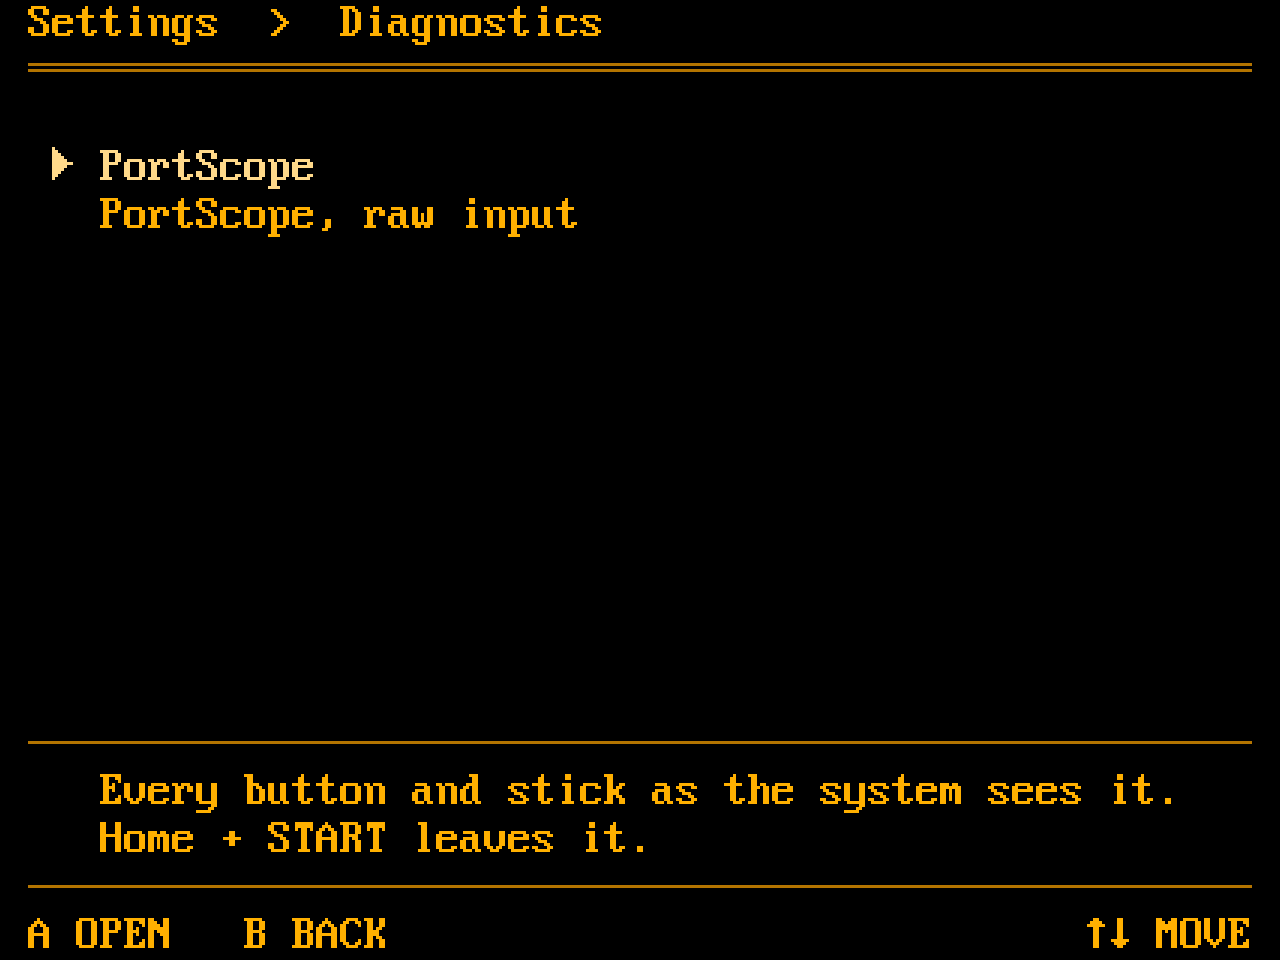
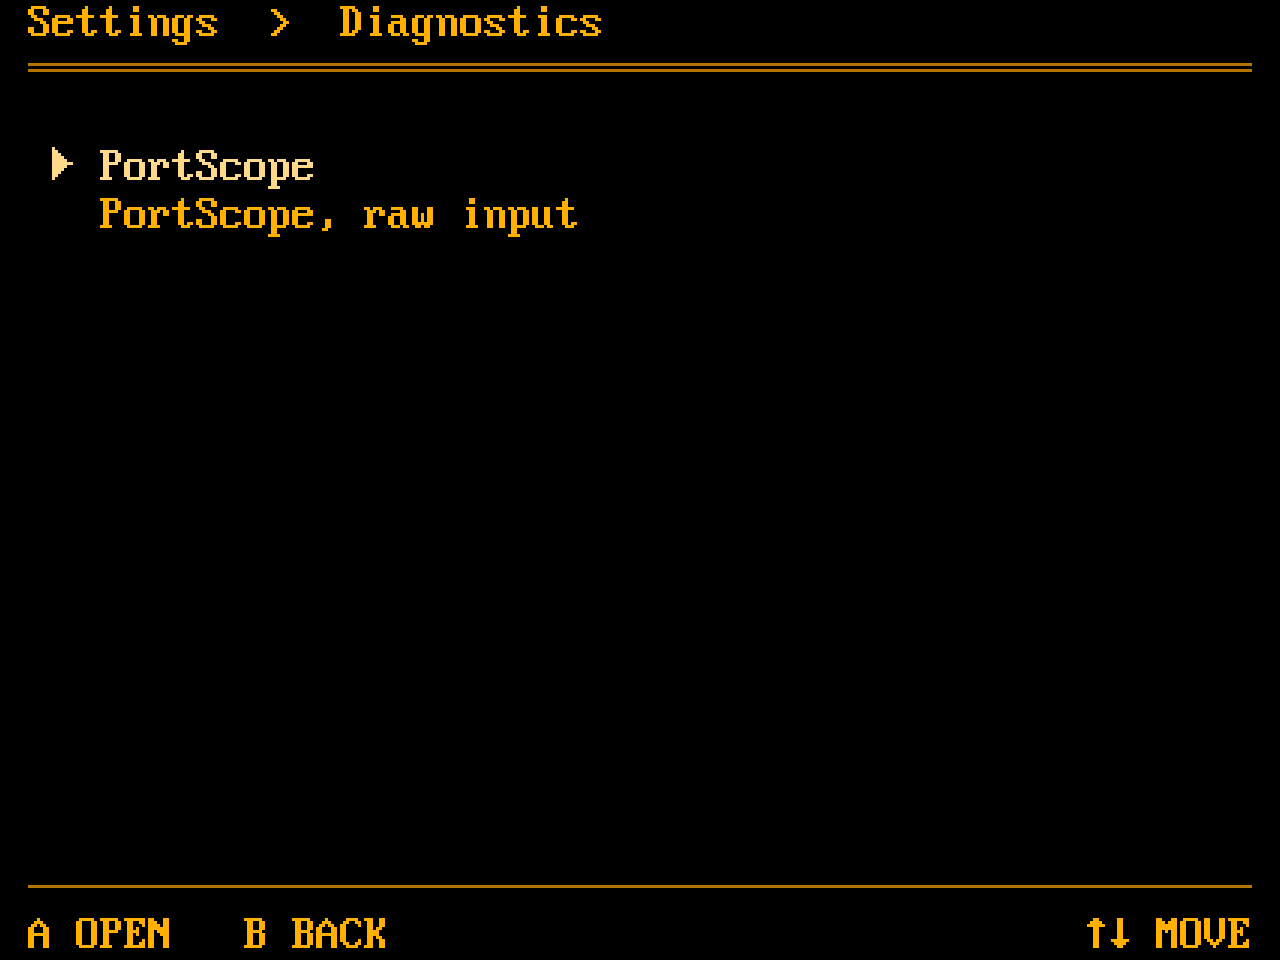
mockup: Diagnostics without a description band
The two names say what they open, and Home + START is how everything
on the device is left.

Changed region(s): [[0.0625, 0.8125, 0.8438, 0.9062], [0.875, 0.8125, 0.9062, 0.8438]]

diff --git a/tools/mockup.py b/tools/mockup.py
@@ -99,10 +99,10 @@ consoles = consoles_screen(0)
 DIAG = [("PortScope", ""), ("PortScope, raw input", "")]
 diagnostics = [row(" Settings  \u203a  Diagnostics", ""), RULE, ""]
 diagnostics += [item(i == 0, n, v) for i, (n, v) in enumerate(DIAG)]
-diagnostics += [""] * (ROWS - 2 - 3 - len(diagnostics))
-diagnostics += [THIN, "    Every button and stick as the system sees it.",
-                "    Home + START leaves it.", THIN,
-                row(" A OPEN   B BACK", "\u2191\u2193 MOVE ")]
+# No description band: the names say it, and Home + START is the way out
+# of everything on the device.
+diagnostics += [""] * (ROWS - 2 - len(diagnostics))
+diagnostics += [THIN, row(" A OPEN   B BACK", "\u2191\u2193 MOVE ")]
 
 # Two toggles and the devices in one list: switching it on, letting known
 # headphones come back, and picking them when they have not.

diff --git a/docs/portscope.md b/docs/portscope.md
@@ -78,8 +78,9 @@ stick calibration; this only shows.
 
 Home + START, the same combo that leaves every emulator: the launcher
 holds it while a child runs (`quit.h`) and takes the panel back. PortScope
-has no exit combo of its own and no footer saying so; the Diagnostics
-screen's description says it.
+has no exit combo of its own and nothing says so, neither a footer here
+nor a description on the Diagnostics screen; it is the way out of
+everything on the device.
 
 ## In the distribution
 
